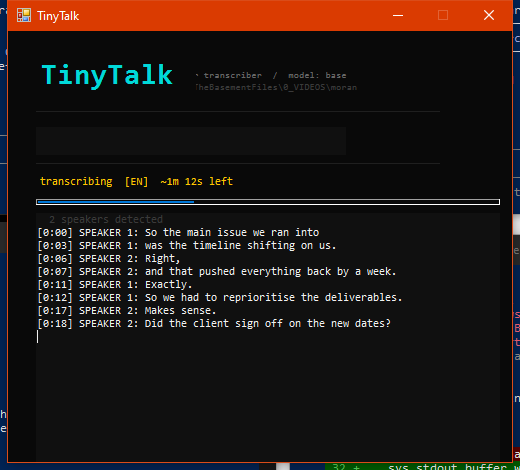
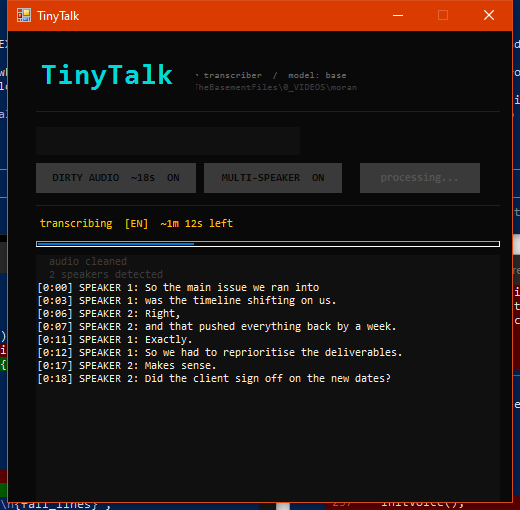
Add DIRTY AUDIO + MULTI-SPEAKER toggles with START button
App now waits for user input before processing. Two toggles let you
opt into noise reduction (DIRTY AUDIO, shows time estimate) and
speaker diarization (MULTI-SPEAKER) before clicking START. Both
features are off by default so the common path stays fast.

diff --git a/tinytalk.py b/tinytalk.py
@@ -46,12 +46,13 @@ class App(tk.Tk):
         self.out_path  = os.path.splitext(file_path)[0] + ".txt"
         self.fname     = os.path.basename(file_path)
 
-        self._spin_idx     = 0
-        self._spin_job     = None
-        self._done_evt     = threading.Event()   # set when transcription finishes
-        self._clean_audio  = False               # toggled by user before transcription
-        self._transcribing = False               # locks toggle once model starts loading
-        self._file_dur     = None                # populated async from ffmpeg
+        self._spin_idx       = 0
+        self._spin_job       = None
+        self._done_evt       = threading.Event()   # set when transcription finishes
+        self._clean_audio    = False               # toggled by user before transcription
+        self._diarize_enabled = False              # toggled by user before transcription
+        self._transcribing   = False               # locks toggles once processing starts
+        self._file_dur       = None                # populated sync from ffmpeg
 
         self.title("TinyTalk")
         self.configure(bg=C_BG)
@@ -60,13 +61,12 @@ class App(tk.Tk):
         self._probe_duration_sync()   # get file duration before building UI so estimate is shown immediately
         self._build()
 
-        W, H = 520, 420
+        W, H = 520, 460
         self.update_idletasks()
         sw, sh = self.winfo_screenwidth(), self.winfo_screenheight()
         self.geometry(f"{W}x{H}+{(sw - W) // 2}+{(sh - H) // 2}")
 
-        # Transcription and background model update run concurrently
-        threading.Thread(target=self._run,                daemon=True).start()
+        # Background model-update check runs immediately; _run waits for START button
         threading.Thread(target=self._check_model_update, daemon=True).start()
 
     # ── UI ────────────────────────────────────────────────────────────────────
@@ -102,20 +102,49 @@ class App(tk.Tk):
         tk.Label(fname_bg, text=self.fname, font=f_file,
                  bg=C_CARD, fg=C_TEXT).pack(side="left")
 
+        # ── Options row ───────────────────────────────────────────────────────
+        tk.Frame(self, bg=C_BG, height=8).pack()
+
+        opts_row = tk.Frame(self, bg=C_BG, padx=28)
+        opts_row.pack(fill="x")
+
+        f_opt = tkfont.Font(family="Consolas", size=9, weight="bold")
+
         eta = self._eta_clean()
-        btn_text = f"✦ CLEAN  {eta}" if eta else "✦ CLEAN AUDIO"
+        dirty_text = f"DIRTY AUDIO  {eta}" if eta else "DIRTY AUDIO"
         self._clean_btn = tk.Button(
-            fname_row,
-            text=btn_text,
-            font=tkfont.Font(family="Consolas", size=9, weight="bold"),
+            opts_row, text=dirty_text, font=f_opt,
             bg=C_CARD, fg=C_ACCENT,
             activebackground=C_YELLOW, activeforeground=C_BG,
-            relief="solid", bd=1, padx=10, pady=4,
+            relief="solid", bd=1, padx=10, pady=6,
             cursor="hand2",
             highlightbackground=C_ACCENT, highlightcolor=C_ACCENT, highlightthickness=1,
             command=self._toggle_clean,
         )
-        self._clean_btn.pack(side="right")
+        self._clean_btn.pack(side="left")
+
+        tk.Frame(opts_row, bg=C_BG, width=8).pack(side="left")
+
+        self._diarize_btn = tk.Button(
+            opts_row, text="MULTI-SPEAKER", font=f_opt,
+            bg=C_CARD, fg=C_ACCENT,
+            activebackground=C_SUCCESS, activeforeground=C_BG,
+            relief="solid", bd=1, padx=10, pady=6,
+            cursor="hand2",
+            highlightbackground=C_ACCENT, highlightcolor=C_ACCENT, highlightthickness=1,
+            command=self._toggle_diarize,
+        )
+        self._diarize_btn.pack(side="left")
+
+        self._start_btn = tk.Button(
+            opts_row, text="START  ▶", font=f_opt,
+            bg=C_ACCENT, fg=C_BG,
+            activebackground="#00b8b8", activeforeground=C_BG,
+            relief="flat", bd=0, padx=14, pady=6,
+            cursor="hand2",
+            command=self._start_processing,
+        )
+        self._start_btn.pack(side="right")
 
         tk.Frame(self, bg=C_BG, height=12).pack()
         tk.Frame(self, bg=C_BORDER, height=1).pack(fill="x", padx=28)
@@ -125,7 +154,7 @@ class App(tk.Tk):
         status_row.pack(fill="x")
 
         self.spin_var   = tk.StringVar(value="")
-        self.status_var = tk.StringVar(value="loading model...")
+        self.status_var = tk.StringVar(value="configure options above  →  then start")
 
         tk.Label(status_row, textvariable=self.spin_var,
                  font=f_status, bg=C_BG, fg=C_ACCENT,
@@ -149,7 +178,7 @@ class App(tk.Tk):
             length=100,
         )
         self.progress.pack(fill="x", padx=28)
-        self.progress.start(12)
+        # Progress bar starts only when user clicks START
 
         tk.Frame(self, bg=C_BG, height=6).pack()
 
@@ -219,33 +248,66 @@ class App(tk.Tk):
     def _update_clean_btn(self):
         eta = self._eta_clean()
         if self._transcribing:
-            # Locked — dim it, but still show ON/OFF state and estimate
             if self._clean_audio:
-                label = f"✦ CLEAN  {eta}  ON" if eta else "✦ CLEAN AUDIO  ON"
+                label = f"DIRTY AUDIO  {eta}  ON" if eta else "DIRTY AUDIO  ON"
                 self._clean_btn.config(bg=C_DIM, fg=C_BG, text=label,
                                        cursor="", relief="flat", bd=0,
                                        highlightthickness=0)
             else:
-                label = f"✦ CLEAN  {eta}" if eta else "✦ CLEAN AUDIO"
+                label = f"DIRTY AUDIO  {eta}" if eta else "DIRTY AUDIO"
                 self._clean_btn.config(bg=C_DIM, fg="#333333", text=label,
                                        cursor="", relief="flat", bd=0,
                                        highlightthickness=0)
         elif self._clean_audio:
-            label = f"✦ CLEAN  {eta}  ON" if eta else "✦ CLEAN AUDIO  ON"
+            label = f"DIRTY AUDIO  {eta}  ON" if eta else "DIRTY AUDIO  ON"
             self._clean_btn.config(bg=C_YELLOW, fg=C_BG, text=label,
                                    cursor="hand2", relief="flat", bd=0,
                                    highlightthickness=0)
         else:
-            label = f"✦ CLEAN  {eta}" if eta else "✦ CLEAN AUDIO"
+            label = f"DIRTY AUDIO  {eta}" if eta else "DIRTY AUDIO"
             self._clean_btn.config(bg=C_CARD, fg=C_ACCENT, text=label,
                                    cursor="hand2", relief="solid", bd=1,
                                    highlightthickness=1)
 
     def _toggle_clean(self):
         if self._transcribing:
-            return   # too late — model already loading
+            return
         self._clean_audio = not self._clean_audio
         self._update_clean_btn()
+
+    def _update_diarize_btn(self):
+        if self._transcribing:
+            if self._diarize_enabled:
+                self._diarize_btn.config(bg=C_DIM, fg=C_BG, text="MULTI-SPEAKER  ON",
+                                         cursor="", relief="flat", bd=0, highlightthickness=0)
+            else:
+                self._diarize_btn.config(bg=C_DIM, fg="#333333", text="MULTI-SPEAKER",
+                                         cursor="", relief="flat", bd=0, highlightthickness=0)
+        elif self._diarize_enabled:
+            self._diarize_btn.config(bg=C_SUCCESS, fg=C_BG, text="MULTI-SPEAKER  ON",
+                                     cursor="hand2", relief="flat", bd=0, highlightthickness=0)
+        else:
+            self._diarize_btn.config(bg=C_CARD, fg=C_ACCENT, text="MULTI-SPEAKER",
+                                     cursor="hand2", relief="solid", bd=1, highlightthickness=1)
+
+    def _toggle_diarize(self):
+        if self._transcribing:
+            return
+        self._diarize_enabled = not self._diarize_enabled
+        self._update_diarize_btn()
+
+    def _start_processing(self):
+        if self._transcribing:
+            return
+        self._transcribing = True
+        self._update_clean_btn()
+        self._update_diarize_btn()
+        self._start_btn.config(text="processing...", bg=C_DIM, fg="#555555",
+                               cursor="", state="disabled")
+        self.after(0, self._set_status, "loading model...", C_YELLOW)
+        self.progress.config(mode="indeterminate")
+        self.progress.start(12)
+        threading.Thread(target=self._run, daemon=True).start()
 
     # ── Audio cleaning ────────────────────────────────────────────────────────
 
@@ -291,8 +353,6 @@ class App(tk.Tk):
     # ── Transcription ─────────────────────────────────────────────────────────
 
     def _run(self):
-        self._transcribing = True                    # lock the clean toggle
-        self.after(0, self._update_clean_btn)        # grey it out visually
         self._start_spin()
         try:
             from faster_whisper import WhisperModel
@@ -332,8 +392,8 @@ class App(tk.Tk):
                     transcribe_path = tmp_clean
                     self.after(0, self._append_log, "  audio cleaned", "dim")
 
-            # Speaker diarization (optional — skipped gracefully if libs missing)
-            diarization = self._diarize(transcribe_path)
+            # Speaker diarization (only if user enabled it)
+            diarization = self._diarize(transcribe_path) if self._diarize_enabled else None
             if diarization:
                 n_spk = len(set(lbl for _, _, lbl in diarization))
                 self.after(0, self._append_log,

diff --git a/README.md b/README.md
@@ -8,9 +8,9 @@ TinyTalk adds a single right-click option to every audio and video file on Windo
 
 ## Screenshots
 
-| Installer | Transcribing | Done |
-|-----------|-------------|------|
-| ![Installer](screenshots/installer.png) | ![Transcribing](screenshots/transcribing.png) | ![Done](screenshots/done.png) |
+| Installer | Ready | Transcribing | Done |
+|-----------|-------|-------------|------|
+| ![Installer](screenshots/installer.png) | ![Ready](screenshots/ready.png) | ![Transcribing](screenshots/transcribing.png) | ![Done](screenshots/done.png) |
 
 ---
 
@@ -37,9 +37,13 @@ Re-running the installer skips everything already in place — only installs wha
 
 1. Right-click any audio or video file
 2. Click **Transcribe with TinyTalk** (teal speech-bubble icon)
-3. Transcript streams live — per-sentence timestamps, speaker labels update in real time
-4. ETA countdown shown while transcribing
-5. Hit **Open Transcript** when done
+3. Choose your options:
+   - **DIRTY AUDIO** — run noise reduction before transcribing (shows estimated time)
+   - **MULTI-SPEAKER** — detect and label multiple speakers automatically
+4. Click **START ▶**
+5. Transcript streams live — per-sentence timestamps, speaker labels update in real time
+6. ETA countdown shown while transcribing
+7. Hit **Open Transcript** when done
 
 The `.txt` file is saved in the same folder as your source file.
 
@@ -58,7 +62,7 @@ The `.txt` file is saved in the same folder as your source file.
 ```
 
 - **Timestamps** are per-sentence, derived from Whisper's word-level timing
-- **Speaker labels** appear automatically when multiple voices are detected — no setup, no API keys
+- **Speaker labels** appear when MULTI-SPEAKER is enabled — no setup, no API keys
 - Lines split on speaker changes mid-sentence as well as at punctuation boundaries
 - Single-speaker files get clean timestamps with no labels
 
@@ -69,7 +73,8 @@ The `.txt` file is saved in the same folder as your source file.
 | Feature | Details |
 |---------|---------|
 | 100% local | No internet required after setup. Nothing leaves your machine. |
-| Speaker detection | Automatic — detects and labels up to N speakers using voice embeddings |
+| Speaker detection | Optional — toggle MULTI-SPEAKER before starting. Detects and labels voices using embeddings. |
+| Noise reduction | Optional — toggle DIRTY AUDIO before starting. Shows estimated time cost up front. |
 | Per-sentence timestamps | Every clause timestamped at word level, not just every few seconds |
 | Live ETA | Calculates remaining time based on measured processing speed |
 | Video support | Transcribes audio track directly from any video container via ffmpeg |